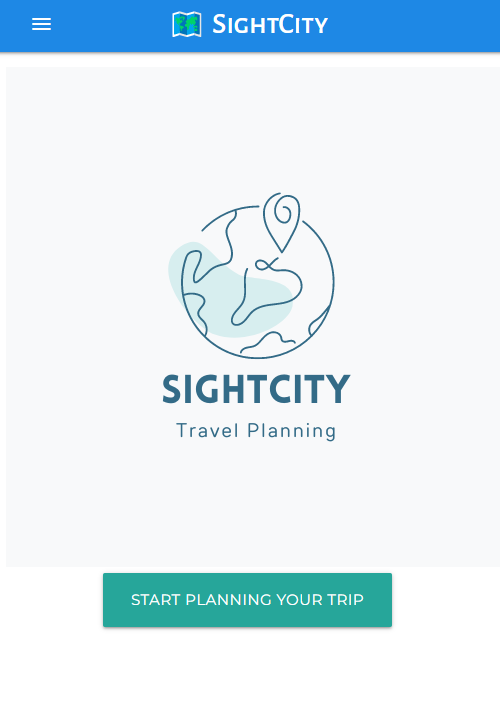
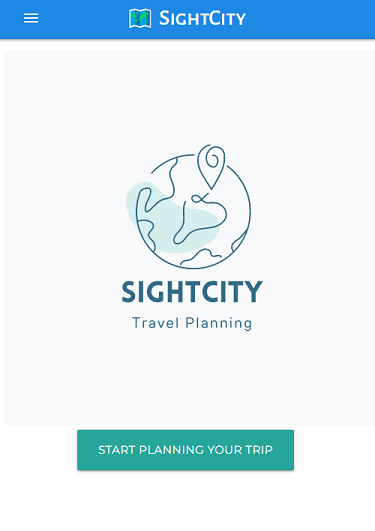
deleted empty files, resized images, and updated readme

diff --git a/controllers/api/activityRoutes.js b/controllers/api/activityRoutes.js
@@ -2,16 +2,16 @@ const router = require('express').Router();
 const { Activity, Trip } = require('../../models');
 
 router.post('/', async (req, res) => {
-    try {
-        const newActivity = await Activity.create({
-            ...req.body,
-            trip_id: req.session.trip_id,
-        });
+  try {
+    const newActivity = await Activity.create({
+      ...req.body,
+      trip_id: req.session.trip_id,
+    });
 
-        res.status(200).json(newActivity)
-    } catch (err) {
-        res.status(400).json(err)
-    };
-})
+    res.status(200).json(newActivity);
+  } catch (err) {
+    res.status(400).json(err);
+  }
+});
 
 module.exports = router;

diff --git a/public/js/autocomplete.js b/public/js/autocomplete.js
@@ -1,5 +1,4 @@
 // courtesy of Geoapify (geoapify.com)
-
 function addressAutocomplete(containerElement, callback, options) {
 
     const MIN_ADDRESS_LENGTH = 3;
@@ -44,7 +43,6 @@ function addressAutocomplete(containerElement, callback, options) {
     
         /* Close any already open dropdown list */
         closeDropDownList();
-    
     
         // Cancel previous timeout
         if (currentTimeout) {

diff --git a/public/css/style.css b/public/css/style.css
@@ -152,4 +152,3 @@ main {
   max-height: 250px;
   object-fit: cover !important;
 }
-
